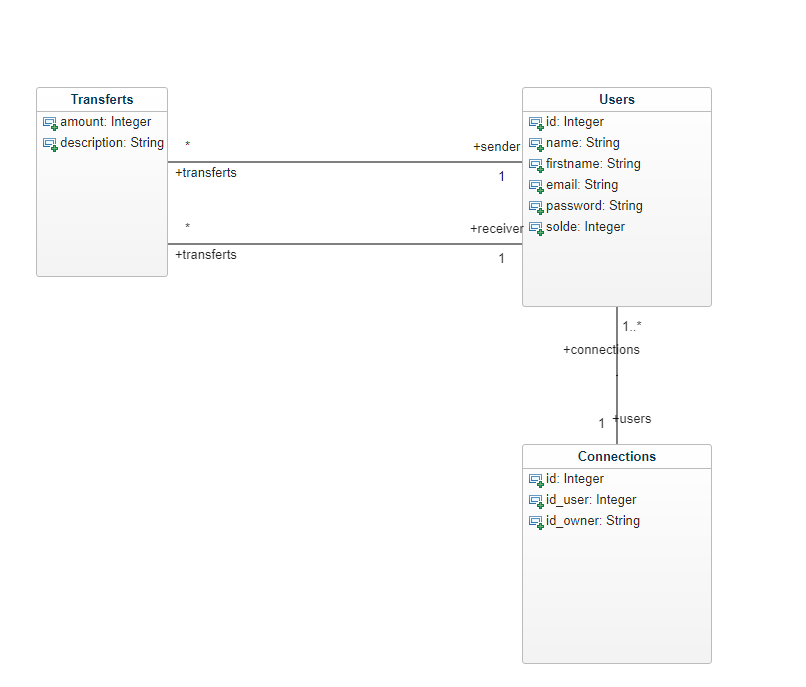
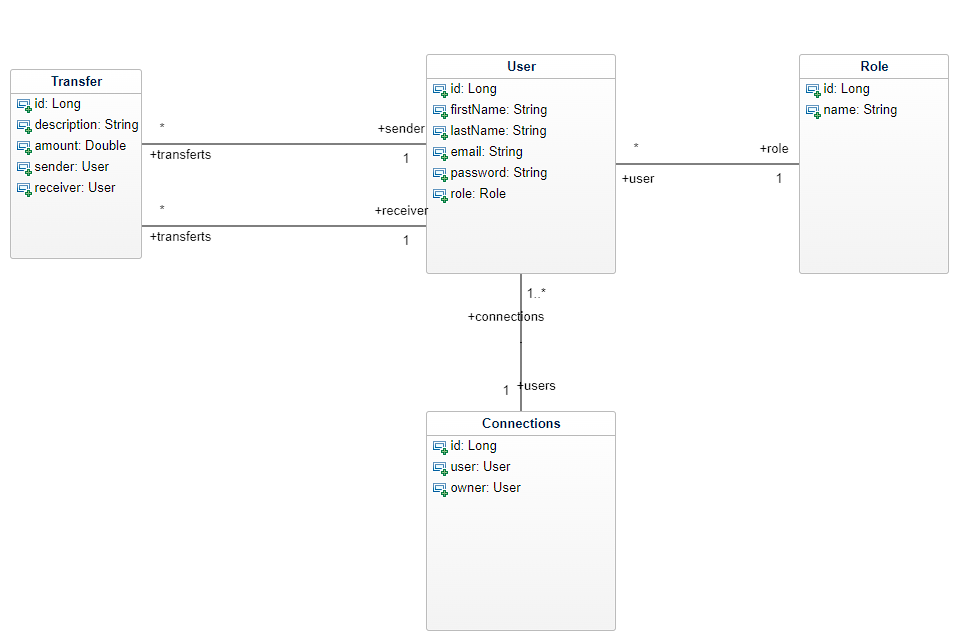
Fixes

diff --git a/src/main/resources/templates/signup.html b/src/main/resources/templates/signup.html
@@ -2,7 +2,6 @@
 <html lang="fr">
     <head>
         <meta charset="UTF-8">
-        <link href="style.css" rel="stylesheet">
         <link href="https://cdn.jsdelivr.net/npm/bootstrap@5.1.3/dist/css/bootstrap.min.css" rel="stylesheet">
         <title>Inscription</title>
     </head>
@@ -11,35 +10,44 @@
         <div class="row">
             <ul class="nav nav-pills">
                 <div class="col-sm">
-                    <li class="nav-item"><a class="btn btn-success" type="button" href="#">Pay My Buddy</a></li>
+                    <li class="nav-item"><a class="btn btn-success" type="button" href="/transfer">Pay My Buddy</a></li>
                 </div>
                 <div class="d-inline-flex">
-                    <li class="nav-item"><a class="nav-link" aria-current="page" href="#">Home</a></li>
-                    <li class="nav-item"><a class="nav-link" href="#">Transfer</a></li>
-                    <li class="nav-item"><a class="nav-link" href="#">Profile</a></li>
-                    <li class="nav-item"><a class="nav-link" href="#">Contact</a></li>
-                    <li class="nav-item"><a class="nav-link" href="#">Log off</a></li>
+                    <li class="nav-item"><a class="nav-link" aria-current="page" href="/transfer">Home</a></li>
+                    <li class="nav-item"><a class="nav-link" href="/transfer">Transfer</a></li>
+                    <li class="nav-item"><a class="nav-link" href="/user/profile">Profile</a></li>
+                    <li class="nav-item"><a class="nav-link" href="/user/addconnection">Contact</a></li>
+                    <li class="nav-item"><a class="nav-link" href="/logout">Log off</a></li>
                 </div>
             </ul>
         </div>
     </section>
-    <section id="form">
-        <form action="#" th:action="@{/signup}" th:object="${user}" method="post">
-            <label for="firstName">firstName</label>
-            <input type="text" th:field="*{firstName}" id="firstName" placeholder="firstName">
-            <span th:if="${#fields.hasErrors('firstName')}" th:errors="*{firstName}"></span>
-            <label for="lastName">lastName</label>
-            <input type="text" th:field="*{lastName}" id="lastName" placeholder="lastName">
-            <span th:if="${#fields.hasErrors('lastName')}" th:errors="*{lastName}"></span>
-            <label for="email">Email</label>
-            <input type="text" th:field="*{email}" id="email" placeholder="Email">
-            <span th:if="${#fields.hasErrors('email')}" th:errors="*{email}"></span>
-            <label for="password">password</label>
-            <input type="text" th:field="*{password}" id="password" placeholder="password">
-            <span th:if="${#fields.hasErrors('password')}" th:errors="*{password}"></span>
-            <button type="submit" class="btn btn-success"> Register </button>
-            <span>Already Register?<a href="/" th:href="@{/login}">Login here</a></span>
-        </form>
+    <section id="form" style="display: flex; justify-content: center">
+            <form action="#" th:action="@{/signup}" th:object="${user}" method="post">
+                <div class="mb-3">
+                    <label for="firstName" class="form-label">Firstname</label>
+                    <input type="text" th:field="*{firstName}" id="firstName" placeholder="Firstname" class="form-control">
+                    <span th:if="${#fields.hasErrors('firstName')}" th:errors="*{firstName}"></span>
+                </div>
+                <div class="mb-3">
+                    <label for="lastName" class="form-label">Lastname</label>
+                    <input type="text" th:field="*{lastName}" id="lastName" placeholder="Lastname" class="form-control">
+                    <span th:if="${#fields.hasErrors('lastName')}" th:errors="*{lastName}"></span>
+                </div>
+                <div class="mb-3">
+                    <label for="email" class="form-label">Email</label>
+                    <input type="text" th:field="*{email}" id="email" placeholder="Email" class="form-control">
+                    <span th:if="${#fields.hasErrors('email')}" th:errors="*{email}"></span>
+                </div>
+                <div class="mb-3">
+                    <label for="password" class="form-label">Password</label>
+                    <input type="password" th:field="*{password}" id="password" placeholder="Password" class="form-control">
+                    <span th:if="${#fields.hasErrors('password')}" th:errors="*{password}"></span>
+                </div>
+                <button type="submit" class="btn btn-success"> Register </button>
+                <span>Already Register?<a href="/" th:href="@{/login}">Login here</a></span>
+            </form>
+
     </section>
     </body>
 </html>

diff --git a/src/main/resources/templates/transfer.html b/src/main/resources/templates/transfer.html
@@ -4,7 +4,6 @@
         <meta charset="UTF-8">
         <meta name="viewport" content="width=device-width", initial-scale=1>
         <link href="https://cdn.jsdelivr.net/npm/bootstrap@5.1.3/dist/css/bootstrap.min.css" rel="stylesheet">
-        <link rel="stylesheet" href="style.css">
         <title>PayMyBuddy</title>
     </head>
     <body>
@@ -12,26 +11,26 @@
             <div class="row">
                 <ul class="nav nav-pills">
                     <div class="col-sm">
-                        <li class="nav-item"><a class="btn btn-success" type="button" href="#">Pay My Buddy</a></li>
+                        <li class="nav-item"><a class="btn btn-success" type="button" href="/transfer">Pay My Buddy</a></li>
                     </div>
                     <div class="d-inline-flex">
-                        <li class="nav-item"><a class="nav-link" aria-current="page" href="#" style="color: black">Home</a></li>
-                        <li class="nav-item"><a class="nav-link" href="#">Transfer</a></li>
-                        <li class="nav-item"><a class="nav-link" href="#" style="color: black">Profile</a></li>
-                        <li class="nav-item"><a class="nav-link" href="#" style="color: black">Contact</a></li>
+                        <li class="nav-item"><a class="nav-link" aria-current="page" href="/transfer" style="color: black">Home</a></li>
+                        <li class="nav-item"><a class="nav-link" href="/transfer">Transfer</a></li>
+                        <li class="nav-item"><a class="nav-link" href="/user/profile" style="color: black">Profile</a></li>
+                        <li class="nav-item"><a class="nav-link" href="/user/addconnection" style="color: black">Contact</a></li>
                         <li class="nav-item"><a class="nav-link" href="/logout" style="color: black">Log off</a></li>
                     </div>
                 </ul>
             </div>
         </section>
-    <section id="sectionTitle" class="container">
-        <nav aria-label="breadcrumb">
-            <ol class="breadcrumb">
-                <li class="breadcrumb-item"><a href="#">Home</a></li>
-                <li class="breadcrumb-item active" aria-current="page">Transfer</li>
-            </ol>
-        </nav>
-    </section>
+        <section id="sectionTitle" class="container">
+            <nav aria-label="breadcrumb">
+                <ol class="breadcrumb">
+                    <li class="breadcrumb-item"><a href="#">Home</a></li>
+                    <li class="breadcrumb-item active" aria-current="page">Transfer</li>
+                </ol>
+            </nav>
+        </section>
         <section id="sendMoney" class="container">
             <div class="row">
                 <div class="col-sm-6">

diff --git a/src/main/resources/templates/profile.html b/src/main/resources/templates/profile.html
@@ -1,0 +1,50 @@
+<!DOCTYPE html>
+<html lang="fr" xmlns:th="https://www.thymeleaf.org"
+      xmlns:sec="https://www.thymeleaf.org/thymeleaf-extras-springsecurity5">
+    <head>
+        <meta charset="UTF-8">
+        <meta name="viewport" content="width=device-width", initial-scale=1>
+        <link href="https://cdn.jsdelivr.net/npm/bootstrap@5.1.3/dist/css/bootstrap.min.css" rel="stylesheet">
+        <title>Profile</title>
+    </head>
+    <body>
+        <section id="navbar" class="container">
+            <div class="row">
+                <ul class="nav nav-pills">
+                    <div class="col-sm">
+                        <li class="nav-item"><a class="btn btn-success" type="button" href="/transfer">Pay My Buddy</a></li>
+                    </div>
+                    <div class="d-inline-flex">
+                        <li class="nav-item"><a class="nav-link" aria-current="page" href="/transfer" style="color: black">Home</a></li>
+                        <li class="nav-item"><a class="nav-link" href="/transfer" style="color: black">Transfer</a></li>
+                        <li class="nav-item"><a class="nav-link" href="#">Profile</a></li>
+                        <li class="nav-item"><a class="nav-link" href="/user/addconnection" style="color: black">Contact</a></li>
+                        <li class="nav-item"><a class="nav-link" href="/logout" style="color: black">Log off</a></li>
+                    </div>
+                </ul>
+            </div>
+        </section>
+        <section id="sectionTitle" class="container">
+            <nav aria-label="breadcrumb">
+                <ol class="breadcrumb">
+                    <li class="breadcrumb-item"><a href="#">Home</a></li>
+                    <li class="breadcrumb-item active" aria-current="page">Profile</li>
+                </ol>
+            </nav>
+        </section>
+        <section id="profileCard" class="container">
+            <ul class="list-group">
+                <li class="list-group-item list-group-item-dark">Firstname</li>
+                <li class="list-group-item"><span th:text ="${#authentication.getPrincipal().getFirstName()}"></span></li>
+            </ul>
+            <ul class="list-group">
+                <li class="list-group-item  list-group-item-dark">Lastname</li>
+                <li class="list-group-item"><span th:text ="${#authentication.getPrincipal().getLastName()}"></span></li>
+            </ul>
+            <ul class="list-group">
+                <li class="list-group-item  list-group-item-dark">Email</li>
+                <li class="list-group-item" sec:authorize="isAuthenticated()"><span sec:authentication="name"></span></li>
+            </ul>
+        </section>
+    </body>
+</html>

diff --git a/src/main/resources/templates/addconnection.html b/src/main/resources/templates/addconnection.html
@@ -14,11 +14,11 @@
                     <li class="nav-item"><a class="btn btn-success" type="button" href="#">Pay My Buddy</a></li>
                 </div>
                 <div class="d-inline-flex">
-                    <li class="nav-item"><a class="nav-link" aria-current="page" href="#">Home</a></li>
-                    <li class="nav-item"><a class="nav-link" href="#">Transfer</a></li>
-                    <li class="nav-item"><a class="nav-link" href="#">Profile</a></li>
+                    <li class="nav-item"><a class="nav-link" aria-current="page" href="/transfer" style="color: black">Home</a></li>
+                    <li class="nav-item"><a class="nav-link" href="/transfer" style="color: black">Transfer</a></li>
+                    <li class="nav-item"><a class="nav-link" href="/user/profile" style="color: black">Profile</a></li>
                     <li class="nav-item"><a class="nav-link" href="#">Contact</a></li>
-                    <li class="nav-item"><a class="nav-link" href="/logout">Log off</a></li>
+                    <li class="nav-item"><a class="nav-link" href="/logout" style="color: black">Log off</a></li>
                 </div>
             </ul>
         </div>

diff --git a/src/main/resources/templates/index.html b/src/main/resources/templates/index.html
@@ -3,7 +3,6 @@
     <head>
         <meta charset="UTF-8">
         <link href="https://cdn.jsdelivr.net/npm/bootstrap@5.1.3/dist/css/bootstrap.min.css" rel="stylesheet">
-        <link rel="stylesheet" href="style.css">
         <title>Connexion</title>
     </head>
     <body>

diff --git a/src/main/java/com/openclassrooms/paymybuddy/repository/TransferRepo.java b/src/main/java/com/openclassrooms/paymybuddy/repository/TransferRepo.java
@@ -4,13 +4,12 @@ import com.openclassrooms.paymybuddy.model.Transfer;
 import com.openclassrooms.paymybuddy.model.User;
 import org.springframework.data.domain.Page;
 import org.springframework.data.domain.Pageable;
-import org.springframework.data.repository.CrudRepository;
 import org.springframework.data.repository.PagingAndSortingRepository;
 import org.springframework.stereotype.Repository;
 
 @Repository
 public interface TransferRepo extends PagingAndSortingRepository<Transfer, Long> {
 
-	public Page<Transfer> findBySender(User sender, Pageable pageable);
+	Page<Transfer> findBySender(User sender, Pageable pageable);
 
 }

diff --git a/src/main/java/com/openclassrooms/paymybuddy/controller/LoginController.java b/src/main/java/com/openclassrooms/paymybuddy/controller/LoginController.java
@@ -1,6 +1,5 @@
 package com.openclassrooms.paymybuddy.controller;
 
-import org.springframework.context.annotation.Role;
 import org.springframework.web.bind.annotation.RequestMapping;
 import org.springframework.web.bind.annotation.RestController;
 
@@ -8,12 +7,6 @@ import javax.annotation.security.RolesAllowed;
 
 @RestController
 public class LoginController {
-
-//	@RequestMapping("/*")
-//	@RolesAllowed("USER")
-//	public String getUser() {
-//		return "redirect: /index";
-//	}
 
 	@RequestMapping("/admin")
 	@RolesAllowed("ADMIN")

diff --git a/src/main/java/com/openclassrooms/paymybuddy/repository/UserRepo.java b/src/main/java/com/openclassrooms/paymybuddy/repository/UserRepo.java
@@ -1,12 +1,9 @@
 package com.openclassrooms.paymybuddy.repository;
 
-import com.openclassrooms.paymybuddy.model.Role;
 import com.openclassrooms.paymybuddy.model.User;
 import org.springframework.data.repository.CrudRepository;
 import org.springframework.stereotype.Repository;
 
-import java.util.Collection;
-import java.util.List;
 import java.util.Optional;
 
 @Repository

diff --git a/src/main/java/com/openclassrooms/paymybuddy/repository/ConnectionsRepo.java b/src/main/java/com/openclassrooms/paymybuddy/repository/ConnectionsRepo.java
@@ -11,5 +11,5 @@ import java.util.List;
 public interface ConnectionsRepo extends CrudRepository<Connections, Long> {
 
 	@Query("SELECT c from Connections c WHERE c.owner.id=:user_id")
-	public List<Connections> findUserConnections(Long user_id);
+	List<Connections> findUserConnections(Long user_id);
 }

diff --git a/src/main/java/com/openclassrooms/paymybuddy/controller/UserController.java b/src/main/java/com/openclassrooms/paymybuddy/controller/UserController.java
@@ -127,6 +127,11 @@ public class UserController {
 		return "/addconnection";
 	}
 
+	@GetMapping("/user/profile")
+	public String showProfile() {
+		return "/profile";
+	}
+
 	@PostMapping("/user/addconnection")
 	public String addConnection(@RequestParam String email, Model model){
 

diff --git a/src/main/java/com/openclassrooms/paymybuddy/repository/RoleRepo.java b/src/main/java/com/openclassrooms/paymybuddy/repository/RoleRepo.java
@@ -1,7 +1,6 @@
 package com.openclassrooms.paymybuddy.repository;
 
 import com.openclassrooms.paymybuddy.model.Role;
-import com.openclassrooms.paymybuddy.model.User;
 import org.springframework.data.repository.CrudRepository;
 import org.springframework.stereotype.Repository;
 

diff --git a/src/main/java/com/openclassrooms/paymybuddy/model/User.java b/src/main/java/com/openclassrooms/paymybuddy/model/User.java
@@ -26,12 +26,9 @@ public class User implements UserDetails {
 
 	private String email;
 
-	private Long account;
-
 	private String password;
 
 	@ManyToOne(fetch = FetchType.EAGER, cascade = CascadeType.ALL)
-
 	private Role role;
 
 	@Override
